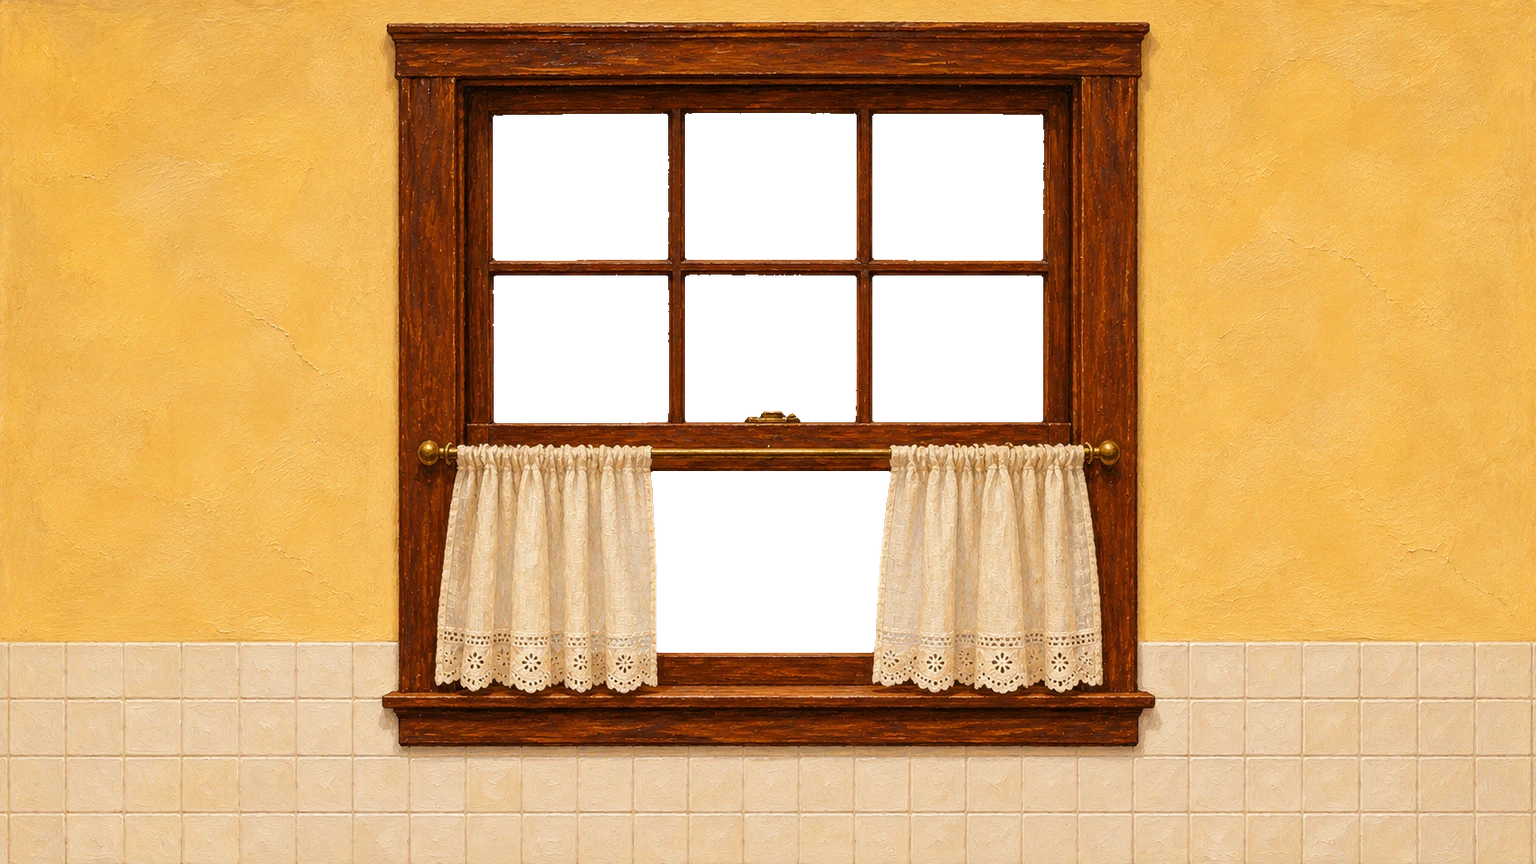
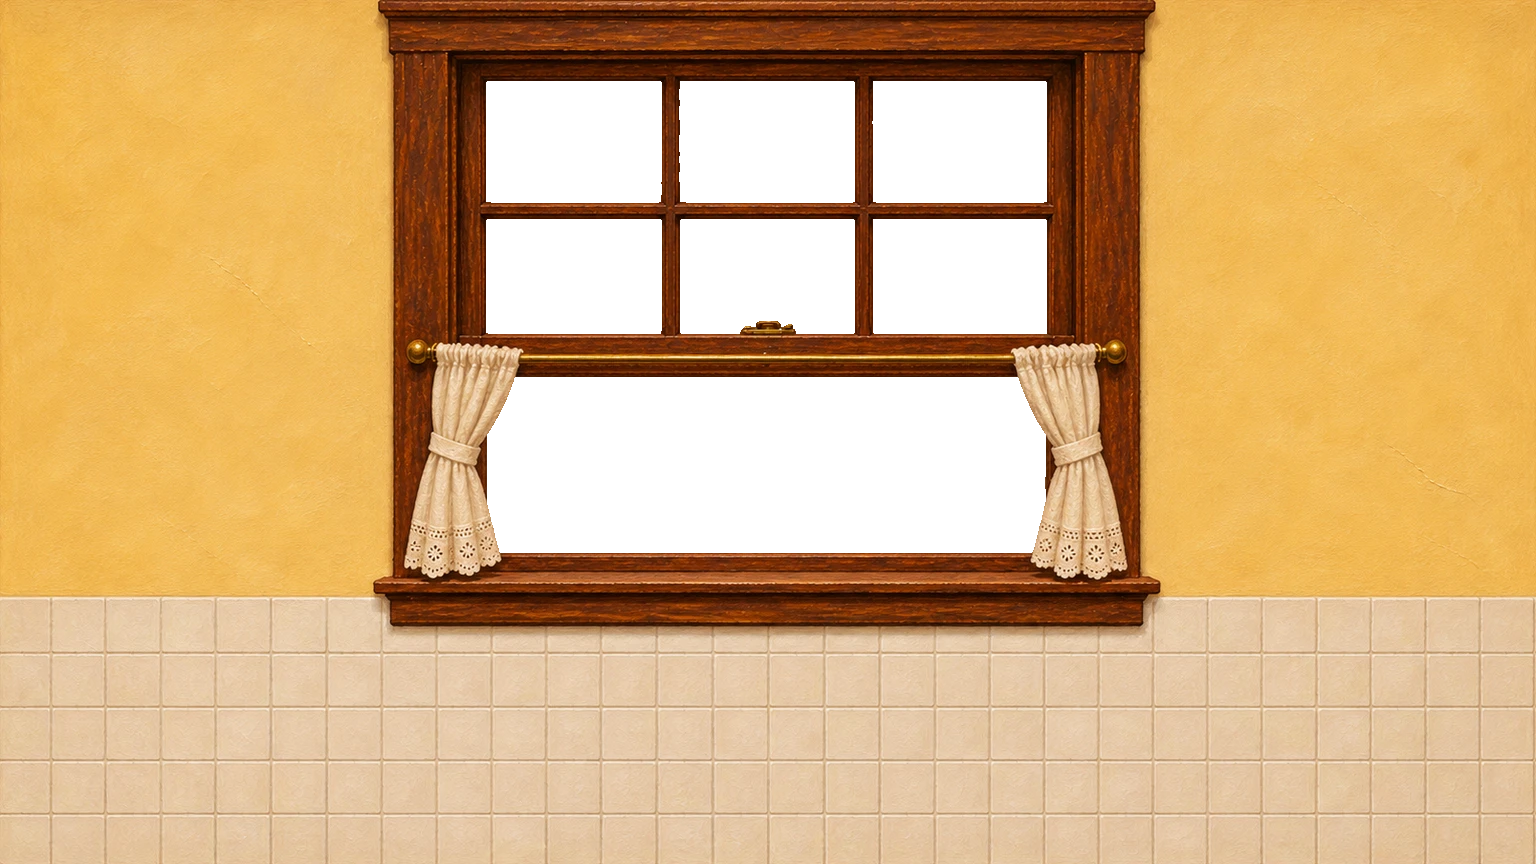
Walk: higher kitchen window with a visible cut screen, phone wall doorway into a walkable back hall, markers only for the room you are in
Claude-Session: https://claude.ai/code/session_013LCfUXWQD6NCZDVs8qittP

diff --git a/src/game/walk/walk-viewer.tsx b/src/game/walk/walk-viewer.tsx
@@ -32,42 +32,54 @@ function wallFrame(r: WalkRoomDef, side: Side) {
   return { pos: [cx + w / 2, cz], rot: -Math.PI / 2, width: d, normal: [-1, 0] };
 }
 
-/** A window screen with an L-shaped cut, the edges bent away from the room. */
-function screenTexture() {
+/** A window screen of wm by hm metres with an L-shaped cut, left of the faucet so it can be seen over it. */
+function screenTexture(wm: number, hm: number) {
+  const W = 1024, H = Math.round((W * hm) / wm);
   const c = document.createElement("canvas");
-  c.width = c.height = 512;
+  c.width = W;
+  c.height = H;
   const g = c.getContext("2d")!;
-  g.clearRect(0, 0, 512, 512);
-  g.strokeStyle = "rgba(70,74,78,0.55)";
+  g.strokeStyle = "rgba(55,58,62,0.7)";
   g.lineWidth = 1;
-  for (let i = 0; i < 512; i += 4) {
+  const step = W / (wm * 160); // about 6 mm between wires
+  for (let x = 0; x < W; x += step) {
     g.beginPath();
-    g.moveTo(i + 0.5, 0);
-    g.lineTo(i + 0.5, 512);
-    g.stroke();
-    g.beginPath();
-    g.moveTo(0, i + 0.5);
-    g.lineTo(512, i + 0.5);
+    g.moveTo(Math.round(x) + 0.5, 0);
+    g.lineTo(Math.round(x) + 0.5, H);
     g.stroke();
   }
-  // The cut: down from near the top left, then across the bottom.
+  for (let y = 0; y < H; y += step) {
+    g.beginPath();
+    g.moveTo(0, Math.round(y) + 0.5);
+    g.lineTo(W, Math.round(y) + 0.5);
+    g.stroke();
+  }
+  g.strokeStyle = "rgba(50,54,58,0.85)";
+  g.lineWidth = 3;
+  g.strokeRect(1.5, 1.5, W - 3, H - 3);
+  // The cut: down from near the top, then across toward the middle. The flap curls out to the yard.
+  const x0 = W * 0.2, y0 = H * 0.14, y1 = H * 0.78, x1 = W * 0.4;
   g.globalCompositeOperation = "destination-out";
-  g.lineWidth = 9;
+  g.lineWidth = 18;
   g.beginPath();
-  g.moveTo(150, 90);
-  g.lineTo(150, 360);
-  g.lineTo(390, 360);
+  g.moveTo(x0, y0);
+  g.lineTo(x0, y1);
+  g.lineTo(x1, y1);
   g.stroke();
   g.globalCompositeOperation = "source-over";
-  g.strokeStyle = "rgba(40,42,45,0.9)";
+  // Bent wire ends along both sides of the cut, catching the light.
+  g.strokeStyle = "rgba(205,205,200,0.75)";
   g.lineWidth = 2;
-  g.beginPath();
-  g.moveTo(144, 90);
-  g.lineTo(144, 366);
-  g.lineTo(390, 366);
-  g.stroke();
+  for (const d of [-10, 10]) {
+    g.beginPath();
+    g.moveTo(x0 + d, y0);
+    g.lineTo(x0 + d, y1 + d);
+    g.lineTo(x1, y1 + d);
+    g.stroke();
+  }
   const t = new THREE.CanvasTexture(c);
   t.colorSpace = THREE.SRGBColorSpace;
+  t.anisotropy = 8;
   return t;
 }
 
@@ -154,7 +166,8 @@ export function WalkViewer({ house, title }: { house: WalkHouse; title: string }
       g.position.set(f.pos[0], 0, f.pos[1]);
       g.rotation.y = f.rot;
       const pt = (u: number, v: number) => new THREE.Vector2((u - 0.5) * f.width, (1 - v) * H);
-      const face = cast(new THREE.Mesh(new THREE.PlaneGeometry(f.width, H), new THREE.MeshLambertMaterial({ map: loadTex(def.tex), alphaTest: def.cutout ? 0.5 : 0, side: def.cutout ? THREE.DoubleSide : THREE.FrontSide })));
+      const tint = r.tint ?? 1;
+      const face = cast(new THREE.Mesh(new THREE.PlaneGeometry(f.width, H), new THREE.MeshLambertMaterial({ map: loadTex(def.tex), color: new THREE.Color(tint, tint, tint), alphaTest: def.cutout ? 0.5 : 0, side: def.cutout ? THREE.DoubleSide : THREE.FrontSide })));
       (face.material as THREE.Material).shadowSide = THREE.DoubleSide;
       face.position.y = H / 2;
       g.add(face);
@@ -173,13 +186,13 @@ export function WalkViewer({ house, title }: { house: WalkHouse; title: string }
         } else {
           const [u0, u1, v0, v1] = rv.rect;
           const c = [pt(u0, v1), pt(u1, v1), pt(u1, v0), pt(u0, v0)];
-          for (let i = 0; i < 4; i++) strip(g, c[i], c[(i + 1) % 4], i === 0 && rv.sill ? trim : plaster);
+          for (let i = 0; i < 4; i++) strip(g, c[i], c[(i + 1) % 4], rv.wood || (i === 0 && rv.sill) ? trim : plaster);
         }
       }
       if (def.screen) {
         const [u0, u1, v0, v1] = def.screen;
         const a = pt(u0, v1), b = pt(u1, v0);
-        const s = new THREE.Mesh(new THREE.PlaneGeometry(b.x - a.x, b.y - a.y), new THREE.MeshLambertMaterial({ map: screenTexture(), transparent: true, side: THREE.DoubleSide, depthWrite: false }));
+        const s = new THREE.Mesh(new THREE.PlaneGeometry(b.x - a.x, b.y - a.y), new THREE.MeshLambertMaterial({ map: screenTexture(b.x - a.x, b.y - a.y), transparent: true, side: THREE.DoubleSide, depthWrite: false }));
         s.position.set((a.x + b.x) / 2, (a.y + b.y) / 2, -WALL * 0.8);
         g.add(s);
       }
@@ -197,12 +210,13 @@ export function WalkViewer({ house, title }: { house: WalkHouse; title: string }
     for (const r of house.rooms) {
       const [cx, cz] = r.center;
       const [w, d, H] = r.size;
-      const floor = new THREE.Mesh(new THREE.PlaneGeometry(w, d), new THREE.MeshLambertMaterial({ map: loadTex(r.floor.tex, r.floor.repeat ?? 1) }));
+      const tc = new THREE.Color(r.tint ?? 1, r.tint ?? 1, r.tint ?? 1);
+      const floor = new THREE.Mesh(new THREE.PlaneGeometry(w, d), new THREE.MeshLambertMaterial({ map: loadTex(r.floor.tex, r.floor.repeat ?? 1), color: tc }));
       floor.rotation.x = -Math.PI / 2;
       floor.position.set(cx, 0, cz);
       floor.receiveShadow = true;
       scene.add(floor);
-      const ceil = cast(new THREE.Mesh(new THREE.PlaneGeometry(w, d), new THREE.MeshLambertMaterial({ map: loadTex(r.ceil.tex) })));
+      const ceil = cast(new THREE.Mesh(new THREE.PlaneGeometry(w, d), new THREE.MeshLambertMaterial({ map: loadTex(r.ceil.tex), color: tc })));
       ceil.rotation.x = Math.PI / 2;
       ceil.position.set(cx, H, cz);
       scene.add(ceil);
@@ -222,6 +236,7 @@ export function WalkViewer({ house, title }: { house: WalkHouse; title: string }
 
     // The floor under each doorway, through the thickness of the wall.
     for (const ps of house.passages) {
+      if (ps.along === "x") continue; // side doorways get a wooden sill from their own reveal
       // Only the part of the passage no room's floor covers: the gap between the two wall faces.
       const mz = (ps.z[0] + ps.z[1]) / 2;
       const z0 = Math.max(ps.z[0], ...house.rooms.map((r) => r.center[1] + r.size[1] / 2).filter((z) => z <= mz + WALL));
@@ -321,7 +336,11 @@ export function WalkViewer({ house, title }: { house: WalkHouse; title: string }
     // Where you can stand: inside a room or in a passage between rooms, clear of the furniture.
     const areas = [
       ...house.rooms.map((r) => ({ x0: r.center[0] - r.size[0] / 2 + RADIUS, x1: r.center[0] + r.size[0] / 2 - RADIUS, z0: r.center[1] - r.size[1] / 2 + RADIUS, z1: r.center[1] + r.size[1] / 2 - RADIUS })),
-      ...house.passages.map((p) => ({ x0: p.x[0] + RADIUS, x1: p.x[1] - RADIUS, z0: p.z[0], z1: p.z[1] })),
+      ...house.passages.map((p) =>
+        p.along === "x"
+          ? { x0: p.x[0], x1: p.x[1], z0: p.z[0] + RADIUS, z1: p.z[1] - RADIUS }
+          : { x0: p.x[0] + RADIUS, x1: p.x[1] - RADIUS, z0: p.z[0], z1: p.z[1] },
+      ),
     ];
     const free = (x: number, z: number) => {
       if (!areas.some((a) => x >= a.x0 && x <= a.x1 && z >= a.z0 && z <= a.z1)) return false;
@@ -337,6 +356,7 @@ export function WalkViewer({ house, title }: { house: WalkHouse; title: string }
     };
     const roomAt = (x: number, z: number) => house.rooms.find((r) => Math.abs(x - r.center[0]) <= r.size[0] / 2 && Math.abs(z - r.center[1]) <= r.size[1] / 2);
     let lastRoom = "";
+    const hotRoom = new Map<string, string>();
 
     // Controls.
     const keys = new Set<string>();
@@ -462,6 +482,7 @@ export function WalkViewer({ house, title }: { house: WalkHouse; title: string }
       }
       const here = roomAt(pos.x, pos.z);
       if (here && here.id !== lastRoom) {
+        for (const hs of house.hotspots) hotRoom.set(hs.id, roomAt(hs.at[0], hs.at[2])?.id ?? "");
         lastRoom = here.id;
         setRoomName(here.name);
       }
@@ -476,7 +497,7 @@ export function WalkViewer({ house, title }: { house: WalkHouse; title: string }
         v.set(hs.at[0], hs.at[1], hs.at[2]);
         const dist = v.distanceTo(pos);
         v.project(camera);
-        if (dist > NEAR || v.z > 1 || Math.abs(v.x) > 1.1 || Math.abs(v.y) > 1.1) {
+        if (hotRoom.get(hs.id) !== lastRoom || dist > NEAR || v.z > 1 || Math.abs(v.x) > 1.1 || Math.abs(v.y) > 1.1) {
           el.style.display = "none";
           continue;
         }

diff --git a/src/game/walk/c001-house.ts b/src/game/walk/c001-house.ts
@@ -11,7 +11,7 @@ export type WalkWall = {
   tex: string;
   cutout?: boolean;
   /** Openings drawn with the wall's thickness: a window or door (rect u0, u1, v0, v1) or an arch outline. */
-  reveals?: ({ rect: number[]; sill?: boolean } | { arch: number[][] })[];
+  reveals?: ({ rect: number[]; sill?: boolean; wood?: boolean } | { arch: number[][] })[];
   /** A window screen over this opening (u0, u1, v0, v1), with the case's L-shaped cut. */
   screen?: number[];
   outside?: WalkOutside;
@@ -24,6 +24,8 @@ export type WalkRoomDef = {
   floor: { tex: string; repeat?: number };
   ceil: { tex: string };
   light: { id: string; at: number[]; power: number };
+  /** Darkens the room's surfaces a little (1 = as painted), for spaces with no window of their own. */
+  tint?: number;
   walls: Partial<Record<"front" | "back" | "left" | "right", WalkWall>>;
 };
 export type WalkHouse = {
@@ -32,8 +34,8 @@ export type WalkHouse = {
   eye: number;
   wall: number;
   rooms: WalkRoomDef[];
-  /** Openings you walk through from one room to the next (x and z ranges in metres). */
-  passages: { x: number[]; z: number[] }[];
+  /** Openings you walk through from one room to the next (x and z ranges in metres), crossed along z unless said otherwise. */
+  passages: { x: number[]; z: number[]; along?: "x" | "z" }[];
   models: WalkModel[];
   hotspots: WalkHotspot[];
 };
@@ -1134,19 +1136,19 @@ export const C001_HOUSE: WalkHouse = {
      "reveals": [
       {
        "rect": [
-        0.3088,
-        0.6918,
-        0.1157,
-        0.7676
+        0.3051,
+        0.693,
+        0.0788,
+        0.652
        ],
        "sill": true
       }
      ],
      "screen": [
-      0.4237,
-      0.5799,
-      0.5452,
-      0.7556
+      0.3171,
+      0.681,
+      0.4363,
+      0.64
      ],
      "outside": {
       "day": "/rooms/c001-kitchen/walk/outside.webp",
@@ -1154,7 +1156,7 @@ export const C001_HOUSE: WalkHouse = {
       "distance": 2.6,
       "width": 16,
       "u": 0.5,
-      "y": 1.5
+      "y": 1.75
      }
     },
     "right": {
@@ -1170,7 +1172,63 @@ export const C001_HOUSE: WalkHouse = {
      }
     },
     "left": {
-     "tex": "/rooms/c001-kitchen/walk/phone.webp"
+     "tex": "/rooms/c001-kitchen/walk/phone.webp",
+     "cutout": true,
+     "reveals": [
+      {
+       "rect": [
+        0.6426,
+        0.8802,
+        0.14,
+        1.0
+       ],
+       "wood": true
+      }
+     ]
+    }
+   }
+  },
+  {
+   "id": "hall",
+   "name": "Hallway",
+   "center": [
+    -4.267,
+    3.73
+   ],
+   "size": [
+    3.4,
+    1.4,
+    2.743
+   ],
+   "tint": 0.78,
+   "floor": {
+    "tex": "/rooms/c001-hall/walk/hall_floor.webp"
+   },
+   "ceil": {
+    "tex": "/rooms/c001-hall/walk/hall_ceil.webp"
+   },
+   "light": {
+    "id": "hall",
+    "at": [
+     -4.267,
+     2.6,
+     3.73
+    ],
+    "power": 0
+   },
+   "walls": {
+    "front": {
+     "tex": "/rooms/c001-hall/walk/hall_side_photo.webp"
+    },
+    "back": {
+     "tex": "/rooms/c001-hall/walk/hall_side_plain.webp"
+    },
+    "left": {
+     "tex": "/rooms/c001-hall/walk/hall_end.webp"
+    },
+    "right": {
+     "tex": "/rooms/c001-hall/walk/hall_door_back.webp",
+     "cutout": true
     }
    }
   }
@@ -1185,6 +1243,17 @@ export const C001_HOUSE: WalkHouse = {
     1.837,
     3.167
    ]
+  },
+  {
+   "x": [
+    -2.75,
+    -2.25
+   ],
+   "z": [
+    3.151,
+    4.309
+   ],
+   "along": "x"
   }
  ],
  "models": [
@@ -1574,9 +1643,9 @@ export const C001_HOUSE: WalkHouse = {
    "label": "Wall calendar",
    "text": "Wall calendar: A pharmacy calendar beside the telephone. Friday's square has a penciled note: 'Supper, 7. M, R, P, D.'",
    "at": [
-    -2.397,
-    1.152,
-    5.638
+    -2.407,
+    1.097,
+    6.393
    ]
   },
   {
@@ -1585,9 +1654,9 @@ export const C001_HOUSE: WalkHouse = {
    "label": "Kitchen telephone",
    "text": "Kitchen telephone: A beige wall telephone with a long coiled cord. A pad beside it lists numbers: Patricia (work), Margaret, Hale Automotive, D. Mercer, Mr. Albright.",
    "at": [
-    -2.397,
+    -2.407,
     1.371,
-    4.663
+    5.491
    ]
   },
   {

diff --git a/src/components/testing-zone.tsx b/src/components/testing-zone.tsx
@@ -35,7 +35,7 @@ export async function TestingZone() {
         <div className="grid h-20 w-40 shrink-0 place-items-center border border-rule font-mono text-2xl text-brass">WASD</div>
         <div className="min-w-0">
           <p className="font-display text-xl text-paper">Walk Eleanor&apos;s House</p>
-          <p className="mt-1 text-sm text-smoke">The living room and kitchen as one 3D space, joined through the arch: WASD on a computer, the stick on a phone.</p>
+          <p className="mt-1 text-sm text-smoke">The living room, kitchen and back hall as one 3D space: WASD on a computer, the stick on a phone.</p>
           <p className="mt-2 text-sm text-brass">Walk in →</p>
         </div>
       </Link>
